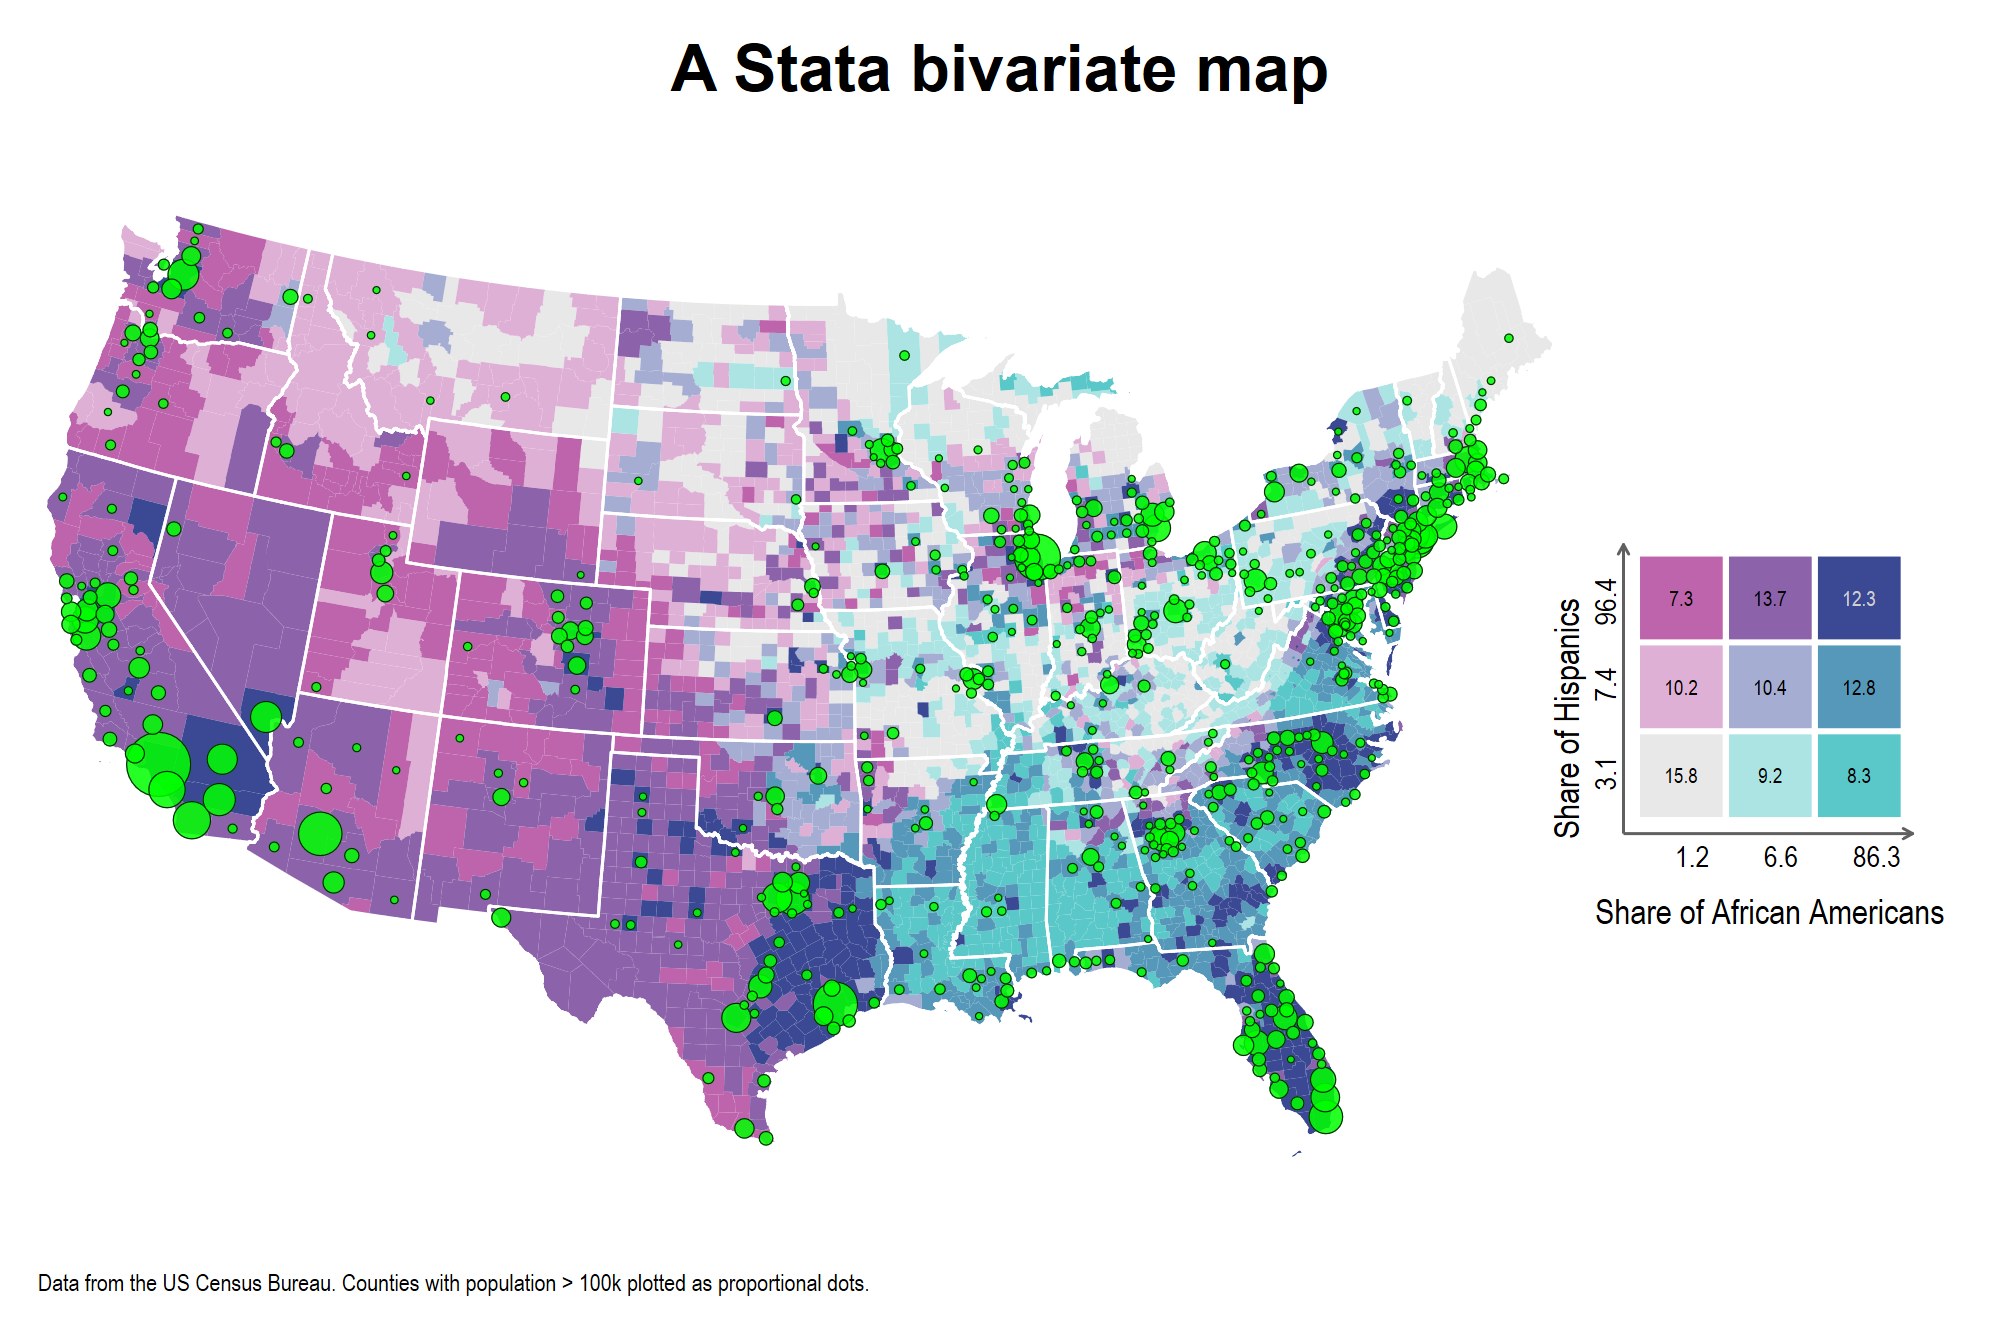
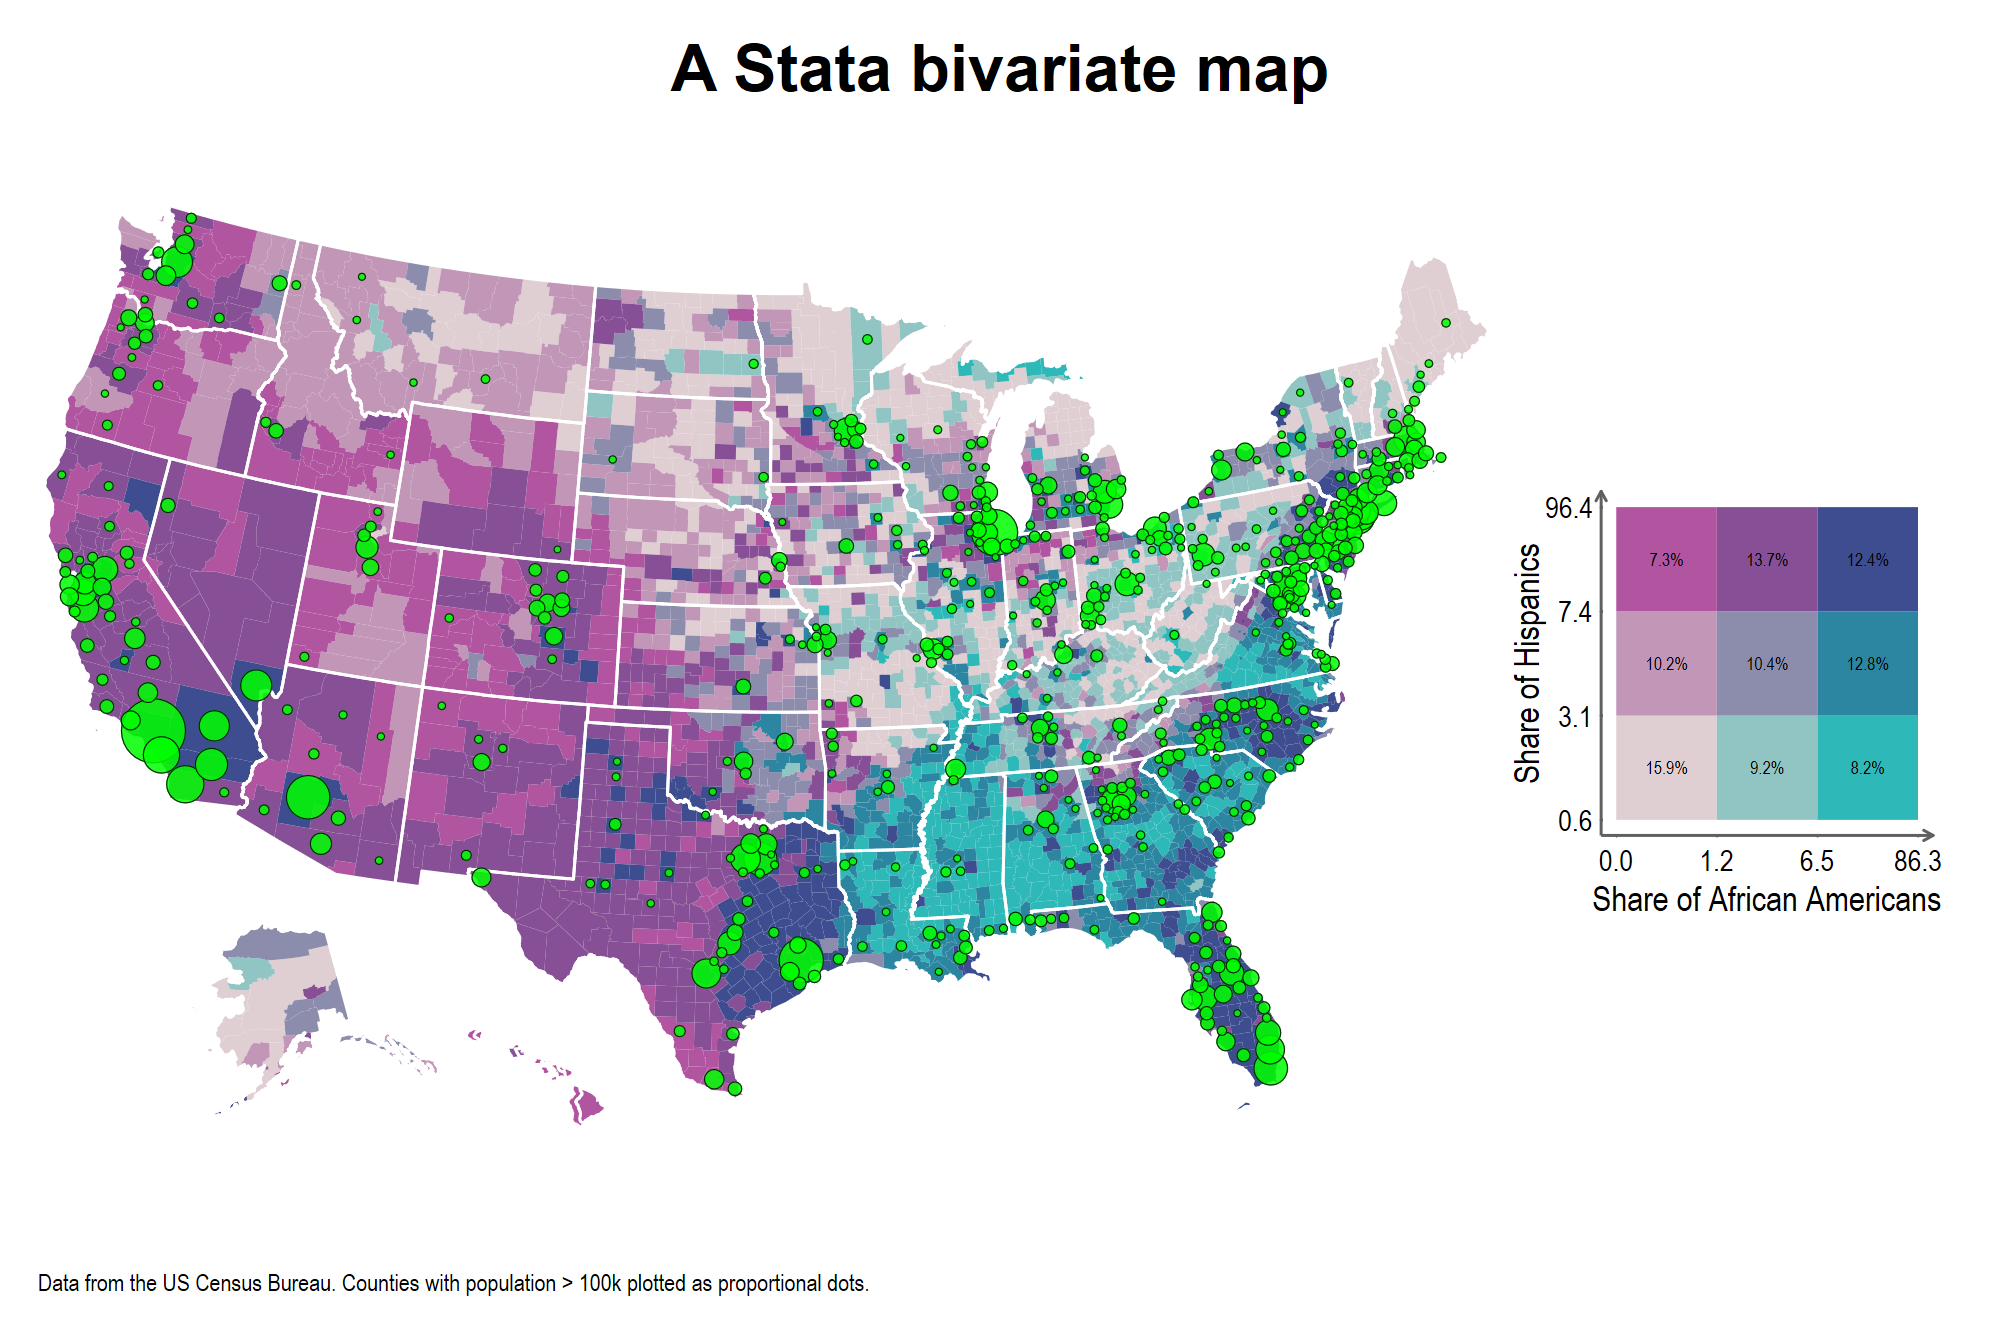
v1.82 fix #18

diff --git a/README.md b/README.md
@@ -10,8 +10,8 @@
 
 ---
 
-# bimap v1.81
-(22 Aug 2023)
+# bimap v1.82
+(04 May 2024)
 
 This package provides the ability to draw bi-variate maps in Stata. It is based on the [Bi-variate maps Guide](https://medium.com/the-stata-guide/stata-graphs-bi-variate-maps-b1e96dd4c2be).
 
@@ -25,7 +25,7 @@ The package can be installed from SSC (**v1.81**):
 ssc install bimap, replace
 ```
 
-Or it can be installed from GitHub (**v1.81**):
+Or it can be installed from GitHub (**v1.82**):
 
 ```
 net install bimap, from("https://raw.githubusercontent.com/asjadnaqvi/stata-bimap/main/installation/") replace
@@ -68,7 +68,7 @@ The syntax for the latest version is as follows:
 bimap vary varx [if] [in], [ palette(name) reverse  clr0(str) clrx(str) clry(str) clrsaturate(num)
                 cut(pctile|equal) cutx(numlist) cuty(numlist) binsproper bins(num >=2) binx(num >=2) biny(num >=2) values count 
                 percent showlegend ocolor(str) osize(str) ndocolor(str) ndfcolor(str) ndsize(str) xdiscrete ydiscrete labxgap(num) labygap(num)
-                textx(str) texty(str) textlabsize(num) textsize(num) formatx(str) formaty(str) xscale(num) yscale(num) 
+                textx(str) texty(str) textlabsize(str) textsize(str) textcolor(str) formatx(str) formaty(str) xscale(num) yscale(num) 
                 polygon(options) line(options) point(options) label(options) arrow(options) diagram(options) scalebar(options) 
                 title(str) subtitle(str) note(str) name(str) scheme(str) ]
 ```
@@ -500,6 +500,10 @@ Please open an [issue](https://github.com/asjadnaqvi/stata-bimap/issues) to repo
 
 
 ## Change log
+
+**v1.82 (04 May 2024)**
+- Added `textcolor()` to control random colors appearing in legend labels under some schemes.
+- Backend improvements to some defaults.
 
 **v1.81 (22 Aug 2023)**
 - Fixed a bug where missing data points where getting dropped (reported by Steve Johnson).
